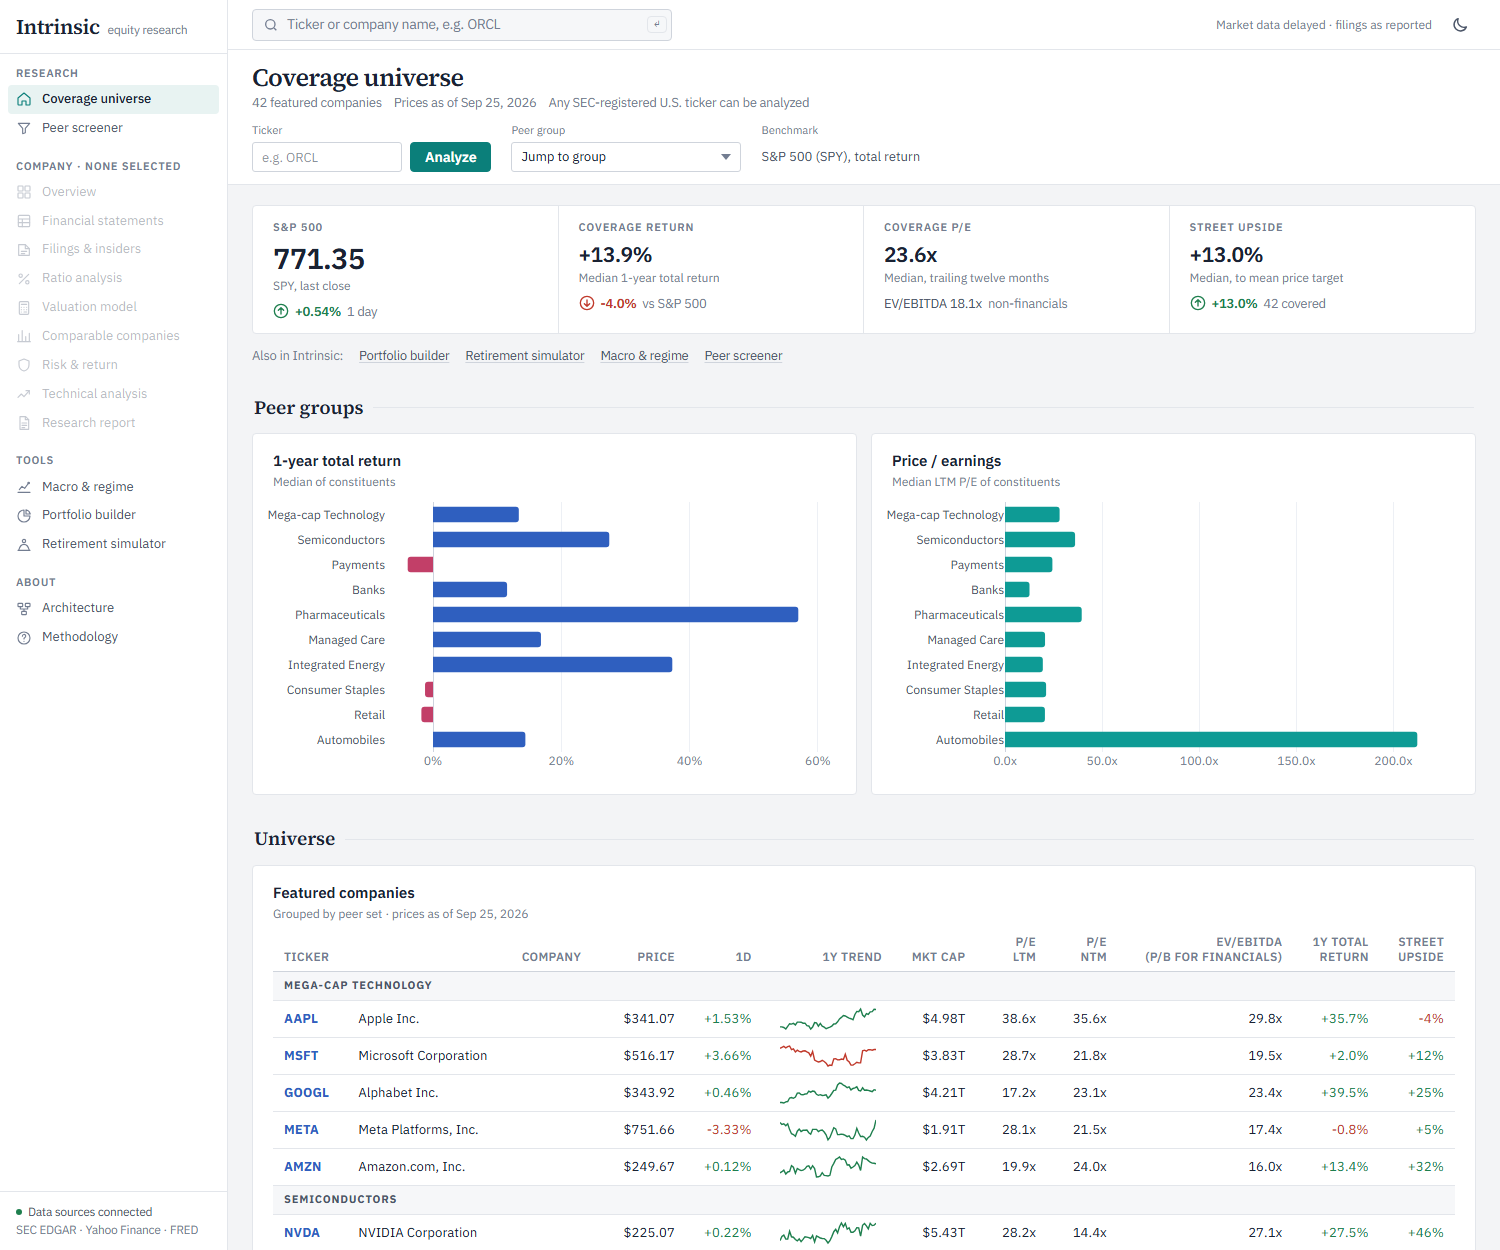
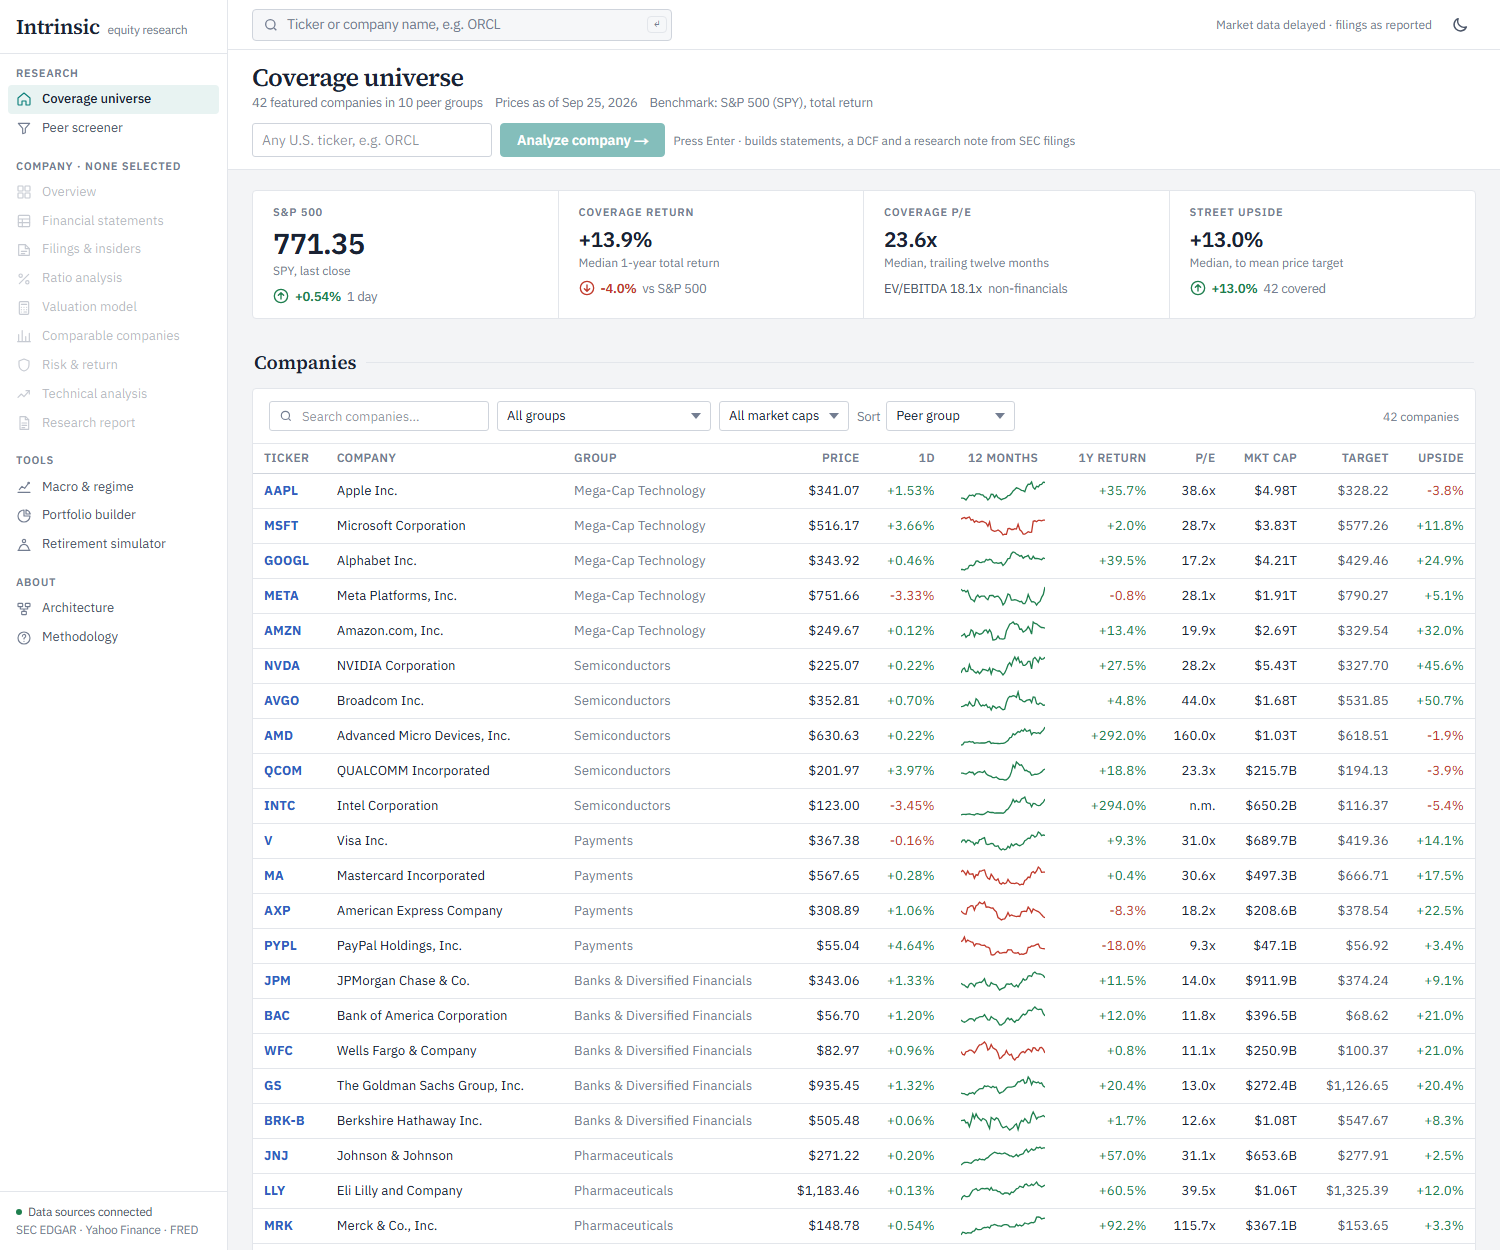
feat: companies table on coverage page

diff --git a/app/page.tsx b/app/page.tsx
@@ -1,10 +1,10 @@
 "use client";
 import Link from "next/link";
 import { useRouter } from "next/navigation";
-import { useState } from "react";
+import { useMemo, useState } from "react";
 import Plot from "@/components/Plot";
-import { Content, Filter, Section, TitleBar } from "@/components/Shell";
-import { Card, Delta, ErrorCard, Kpi, Tw } from "@/components/ui";
+import { Content, Section, TitleBar } from "@/components/Shell";
+import { Card, Delta, ErrorCard, Kpi } from "@/components/ui";
 import { figGroupPE, figGroupReturn } from "@/lib/charts";
 import { cls, dLong, fB, fD, fN, fP, fX, median, ok } from "@/lib/format";
 import universe from "@/data/universe.json";
@@ -13,100 +13,150 @@ const TOOLS: [string, string, string][] = [
   ["/portfolio", "Portfolio builder", "Weights, position sizing, risk metrics and sector exposure"],
   ["/retirement", "Retirement simulator", "Monte Carlo probability that savings last"],
   ["/macro", "Macro & regime", "Economic regime, yield curve and portfolio implications"],
-  ["/screener", "Peer screener", "Sort and compare the coverage universe"],
+  ["/screener", "Peer screener", "Every metric side by side, with comparison"],
+];
+
+const CAPS: [string, string, (m: number) => boolean][] = [
+  ["all", "All market caps", () => true],
+  ["t", "Over $1 trillion", (m) => m >= 1e12],
+  ["large", "$200B to $1T", (m) => m >= 200e9 && m < 1e12],
+  ["mid", "Under $200B", (m) => m < 200e9],
+];
+
+type Row = { ticker: string; name: string; group: string; price: number; prev: number; mcap: number; pe: number | null; fin: boolean; spark: number[]; evEbitda?: number | null; r1y?: { cum: number }; street?: { target: number; up: number; n: number } };
+const SORTS: [string, string, (a: Row, b: Row) => number][] = [
+  ["group", "Peer group", () => 0],
+  ["r1y", "1-year return", (a, b) => (b.r1y?.cum ?? -9) - (a.r1y?.cum ?? -9)],
+  ["up", "Street upside", (a, b) => (b.street?.up ?? -9) - (a.street?.up ?? -9)],
+  ["pe", "P/E, low to high", (a, b) => (a.pe != null && a.pe > 0 ? a.pe : 1e9) - (b.pe != null && b.pe > 0 ? b.pe : 1e9)],
+  ["mcap", "Market cap", (a, b) => b.mcap - a.mcap],
+  ["ticker", "Ticker", (a, b) => a.ticker.localeCompare(b.ticker)],
 ];
 
 function Spark({ c }: { c: number[] }) {
   if (!c || c.length < 5) return null;
-  const w = 96, h = 24, mn = Math.min(...c), mx = Math.max(...c);
+  const w = 84, h = 22, mn = Math.min(...c), mx = Math.max(...c);
   const pts = c.map((v, i) => `${((i / (c.length - 1)) * w).toFixed(1)},${(h - 2 - ((v - mn) / (mx - mn || 1)) * (h - 4)).toFixed(1)}`).join(" ");
-  return <svg width={w} height={h} viewBox={`0 0 ${w} ${h}`} aria-hidden="true" className="inline-block"><polyline fill="none" stroke={c[c.length - 1] >= c[0] ? "var(--pos)" : "var(--neg)"} strokeWidth={1.4} points={pts} /></svg>;
+  return <svg width={w} height={h} viewBox={`0 0 ${w} ${h}`} aria-hidden="true" className="inline-block"><polyline fill="none" stroke={c[c.length - 1] >= c[0] ? "var(--pos)" : "var(--neg)"} strokeWidth={1.3} points={pts} /></svg>;
 }
 
 export default function Home() {
   const router = useRouter();
-  const u: any = universe.rows.length ? universe : null;
+  const u = universe.rows.length ? (universe as unknown as { rows: Row[]; groups: Record<string, string[]>; asOf: string; bench: { last: number; prev: number; r1y: number } }) : null;
+  const rows = useMemo(() => u?.rows ?? [], [u]);
+  const groups = useMemo(() => Object.keys(u?.groups ?? {}), [u]);
   const [q, setQ] = useState("");
-  const go = (t: string) => t.trim() && router.push(`/company/${encodeURIComponent(t.trim().toUpperCase().replace(".", "-"))}`);
-  const rows: any[] = u?.rows ?? [];
-  const by = (tk: string) => rows.find((r) => r.ticker === tk);
+  const [find, setFind] = useState("");
+  const [group, setGroup] = useState("all");
+  const [cap, setCap] = useState("all");
+  const [sort, setSort] = useState("group");
+  const open = (t: string) => router.push(`/company/${encodeURIComponent(t.trim().toUpperCase().replace(".", "-"))}`);
+
+  const shown = useMemo(() => {
+    const f = find.trim().toLowerCase();
+    const capTest = CAPS.find((c) => c[0] === cap)![2];
+    const list = rows.filter((r) => (group === "all" || r.group === group) && capTest(r.mcap) && (!f || r.ticker.toLowerCase().includes(f) || r.name.toLowerCase().includes(f)));
+    // "Peer group" keeps the curated order; every other sort is a flat ranking.
+    if (sort === "group") return list.sort((a, b) => groups.indexOf(a.group) - groups.indexOf(b.group));
+    return list.sort(SORTS.find((s) => s[0] === sort)![2]);
+  }, [rows, find, group, cap, sort, groups]);
+
   const medR = median(rows.map((r) => r.r1y?.cum)), medPE = median(rows.map((r) => r.pe)), medEV = median(rows.map((r) => r.evEbitda)), medUp = median(rows.map((r) => r.street?.up));
   const b = u?.bench;
+  const filtered = find || group !== "all" || cap !== "all";
+
   return (
     <>
       <TitleBar
         title="Coverage universe"
-        sub={<><span>{rows.length} featured companies</span>{u?.asOf && <span>Prices as of {dLong(u.asOf)}</span>}<span>Any SEC-registered U.S. ticker can be analyzed</span></>}
-        filters={<>
-          <Filter label="Ticker">
-            <form className="flex gap-2" onSubmit={(e) => { e.preventDefault(); go(q); }}>
-              <input className="fsel w-[150px] bg-none uppercase placeholder:normal-case" style={{ backgroundImage: "none" }} placeholder="e.g. ORCL" aria-label="Ticker" value={q} onChange={(e) => setQ(e.target.value)} />
-              <button className="btn primary h-[30px] py-0">Analyze</button>
-            </form>
-          </Filter>
-          <Filter label="Peer group">
-            <select className="fsel min-w-[230px]" defaultValue="" onChange={(e) => document.getElementById(`g-${e.target.value}`)?.scrollIntoView({ behavior: "smooth", block: "start" })}>
-              <option value="" disabled>Jump to group</option>
-              {Object.keys(u?.groups ?? {}).map((g) => <option key={g} value={g.replace(/\W+/g, "")}>{g}</option>)}
-            </select>
-          </Filter>
-          <Filter label="Benchmark"><span className="flex h-[30px] items-center text-[13px] text-ink-2">S&amp;P 500 (SPY), total return</span></Filter>
-        </>}
+        sub={<><span>{rows.length} featured companies in {groups.length} peer groups</span>{u?.asOf && <span>Prices as of {dLong(u.asOf)}</span>}<span>Benchmark: S&amp;P 500 (SPY), total return</span></>}
+        filters={
+          <form className="flex flex-wrap items-center gap-2" onSubmit={(e) => { e.preventDefault(); if (q.trim()) open(q); }}>
+            <label className="sr-only" htmlFor="analyze">Ticker to analyze</label>
+            <input id="analyze" className="fsel h-[34px] w-[240px] bg-none text-[14px] uppercase placeholder:normal-case" style={{ backgroundImage: "none" }}
+              placeholder="Any U.S. ticker, e.g. ORCL" value={q} onChange={(e) => setQ(e.target.value)} autoComplete="off" />
+            <button className="btn primary h-[34px] px-4 py-0" disabled={!q.trim()}>Analyze company →</button>
+            <span className="text-[12px] text-ink-3">Press Enter · builds statements, a DCF and a research note from SEC filings</span>
+          </form>
+        }
       />
       <Content>
         <div className="kpis sm:grid-cols-2 xl:grid-cols-4">
-          <Kpi title="S&P 500" unit="SPY, last close" value={fN(b?.last)} delta={<Delta v={ok(b?.last) && ok(b?.prev) ? b.last / b.prev - 1 : null} dp={2} vs="1 day" />} />
-          <Kpi title="Coverage return" unit="Median 1-year total return" value={fP(medR, 1, true)} delta={<Delta v={ok(medR) && ok(b?.r1y) ? medR - b.r1y : null} vs="vs S&P 500" />} />
+          <Kpi title="S&P 500" unit="SPY, last close" value={fN(b?.last)} delta={<Delta v={b && ok(b.last) && ok(b.prev) ? b.last / b.prev - 1 : null} dp={2} vs="1 day" />} />
+          <Kpi title="Coverage return" unit="Median 1-year total return" value={fP(medR, 1, true)} delta={<Delta v={ok(medR) && b && ok(b.r1y) ? medR - b.r1y : null} vs="vs S&P 500" />} />
           <Kpi title="Coverage P/E" unit="Median, trailing twelve months" value={fX(medPE)} delta={<Delta v={null} text={`EV/EBITDA ${fX(medEV)}`} vs="non-financials" />} />
           <Kpi title="Street upside" unit="Median, to mean price target" value={fP(medUp, 1, true)} delta={<Delta v={medUp} vs={`${rows.filter((r) => ok(r.street?.up)).length} covered`} />} />
         </div>
-        <p className="-mt-1 flex flex-wrap gap-x-4 gap-y-1 text-[12.5px] text-ink-3">
-          <span>Also in Intrinsic:</span>
-          {TOOLS.map(([href, t, d]) => <Link key={href} href={href} title={d} className="text-ink-2 underline decoration-line-2 underline-offset-2 hover:text-accent hover:decoration-accent">{t}</Link>)}
-        </p>
+
         {!u ? <ErrorCard title="No universe snapshot yet" message="Run npm run universe to build data/universe.json, then reload." /> : <>
+          <Section>Companies</Section>
+          <Card>
+            <div className="flex flex-wrap items-center gap-2 border-b border-line px-4 py-3">
+              <div className="relative">
+                <svg viewBox="0 0 24 24" className="pointer-events-none absolute top-1/2 left-2.5 h-3.5 w-3.5 -translate-y-1/2 fill-none stroke-[var(--ink-3)]" strokeWidth={2}><circle cx="11" cy="11" r="7" /><path d="m20 20-3.5-3.5" /></svg>
+                <input className="fsel w-[220px] bg-none pl-8" style={{ backgroundImage: "none" }} placeholder="Search companies…" aria-label="Search companies" value={find} onChange={(e) => setFind(e.target.value)} />
+              </div>
+              <select className="fsel" aria-label="Peer group" value={group} onChange={(e) => setGroup(e.target.value)}>
+                <option value="all">All groups</option>
+                {groups.map((g) => <option key={g} value={g}>{g}</option>)}
+              </select>
+              <select className="fsel" aria-label="Market cap" value={cap} onChange={(e) => setCap(e.target.value)}>
+                {CAPS.map(([k, l]) => <option key={k} value={k}>{l}</option>)}
+              </select>
+              <label className="flex items-center gap-1.5 text-[12.5px] text-ink-3">Sort
+                <select className="fsel" aria-label="Sort by" value={sort} onChange={(e) => setSort(e.target.value)}>
+                  {SORTS.map(([k, l]) => <option key={k} value={k}>{l}</option>)}
+                </select>
+              </label>
+              <span className="ml-auto text-[12px] text-ink-3">
+                {shown.length === rows.length ? `${rows.length} companies` : `${shown.length} of ${rows.length}`}
+                {filtered && <button className="ml-2 text-accent hover:underline" onClick={() => { setFind(""); setGroup("all"); setCap("all"); }}>Clear</button>}
+              </span>
+            </div>
+            <div className="overflow-x-auto">
+              <table className="t dense">
+                <thead><tr><th>Ticker</th><th className="!text-left">Company</th><th className="!text-left">Group</th><th>Price</th><th>1D</th><th className="!text-center">12 months</th><th>1Y return</th><th>P/E</th><th>Mkt cap</th><th>Target</th><th>Upside</th></tr></thead>
+                <tbody>
+                  {shown.map((r) => {
+                    const chg = ok(r.prev) ? r.price / r.prev - 1 : null;
+                    return (
+                      <tr key={r.ticker} className="click" tabIndex={0} onClick={() => open(r.ticker)} onKeyDown={(e) => e.key === "Enter" && open(r.ticker)} title={`Open ${r.name}`}>
+                        <td><b className="text-c1">{r.ticker}</b></td>
+                        <td className="l max-w-[220px] truncate">{r.name}</td>
+                        <td className="l text-ink-3">{r.group}</td>
+                        <td>{fD(r.price)}</td>
+                        <td className={cls(chg)}>{fP(chg, 2, true)}</td>
+                        <td className="c"><Spark c={r.spark} /></td>
+                        <td className={cls(r.r1y?.cum)}>{fP(r.r1y?.cum, 1, true)}</td>
+                        <td>{fX(r.pe)}</td>
+                        <td>{fB(r.mcap)}</td>
+                        <td className="text-ink-2">{fD(r.street?.target)}</td>
+                        <td className={cls(r.street?.up)}>{fP(r.street?.up, 1, true)}</td>
+                      </tr>
+                    );
+                  })}
+                  {!shown.length && (
+                    <tr><td colSpan={11} className="!py-8 !text-center text-ink-3">
+                      No featured company matches.{find.trim() && <> <button className="text-accent hover:underline" onClick={() => open(find)}>Analyze “{find.trim().toUpperCase()}” directly</button>; any SEC-registered ticker works.</>}
+                    </td></tr>
+                  )}
+                </tbody>
+              </table>
+            </div>
+            <div className="note">Select a row to open the company. Target is the Street mean price target; P/E is trailing twelve months. Prices refresh each weekday after the close.</div>
+          </Card>
+
           <Section>Peer groups</Section>
-          <div className="grid gap-3.5 xl:grid-cols-2">
+          <div className="grid gap-4 xl:grid-cols-[minmax(0,1.1fr)_minmax(0,0.9fr)]">
             <Card title="1-year total return" unit="Median of constituents"><div className="px-2 pb-2"><Plot fig={figGroupReturn(rows, u.groups)} height={290} /></div></Card>
             <Card title="Price / earnings" unit="Median LTM P/E of constituents"><div className="px-2 pb-2"><Plot fig={figGroupPE(rows, u.groups)} height={290} /></div></Card>
           </div>
-          <Section>Universe</Section>
-          <Card title="Featured companies" unit={`Grouped by peer set · prices as of ${dLong(u.asOf)}`}>
-            <Tw>
-              <table className="t dense">
-                <thead><tr><th>Ticker</th><th>Company</th><th>Price</th><th>1D</th><th>1Y trend</th><th>Mkt cap</th><th>P/E<br />LTM</th><th>P/E<br />NTM</th><th>EV/EBITDA<br />(P/B for financials)</th><th>1Y total<br />return</th><th>Street<br />upside</th></tr></thead>
-                <tbody>
-                  {Object.entries(u.groups as Record<string, string[]>).map(([g, tks]) => (
-                    <FragmentRows key={g} id={`g-${g.replace(/\W+/g, "")}`} title={g}>
-                      {tks.map((t) => {
-                        const r = by(t);
-                        if (!r) return <tr key={t}><td><b className="text-c1">{t}</b></td><td className="l text-ink-3" colSpan={10}>Loading…</td></tr>;
-                        const chg = ok(r.prev) ? r.price / r.prev - 1 : null;
-                        return (
-                          <tr key={t} className="click" onClick={() => go(t)}>
-                            <td><b className="text-c1">{t}</b></td><td className="l">{r.name}</td><td>{fD(r.price)}</td><td className={cls(chg)}>{fP(chg, 2, true)}</td>
-                            <td className="c"><Spark c={r.spark} /></td><td>{fB(r.mcap)}</td><td>{fX(r.pe)}</td><td>{fX(r.fpe)}</td><td>{r.fin ? fX(r.pb) : fX(r.evEbitda)}</td>
-                            <td className={cls(r.r1y?.cum)}>{fP(r.r1y?.cum, 1, true)}</td><td className={cls(r.street?.up)}>{fP(r.street?.up, 0, true)}</td>
-                          </tr>
-                        );
-                      })}
-                    </FragmentRows>
-                  ))}
-                </tbody>
-              </table>
-            </Tw>
-          </Card>
+          <p className="flex flex-wrap gap-x-4 gap-y-1 text-[12.5px] text-ink-3">
+            <span>Also in Intrinsic:</span>
+            {TOOLS.map(([href, t, d]) => <Link key={href} href={href} title={d} className="text-ink-2 underline decoration-line-2 underline-offset-2 hover:text-accent hover:decoration-accent">{t}</Link>)}
+          </p>
         </>}
       </Content>
-    </>
-  );
-}
-
-function FragmentRows({ id, title, children }: { id: string; title: string; children: React.ReactNode }) {
-  return (
-    <>
-      <tr className="sec" id={id}><td colSpan={11}>{title}</td></tr>
-      {children}
     </>
   );
 }
